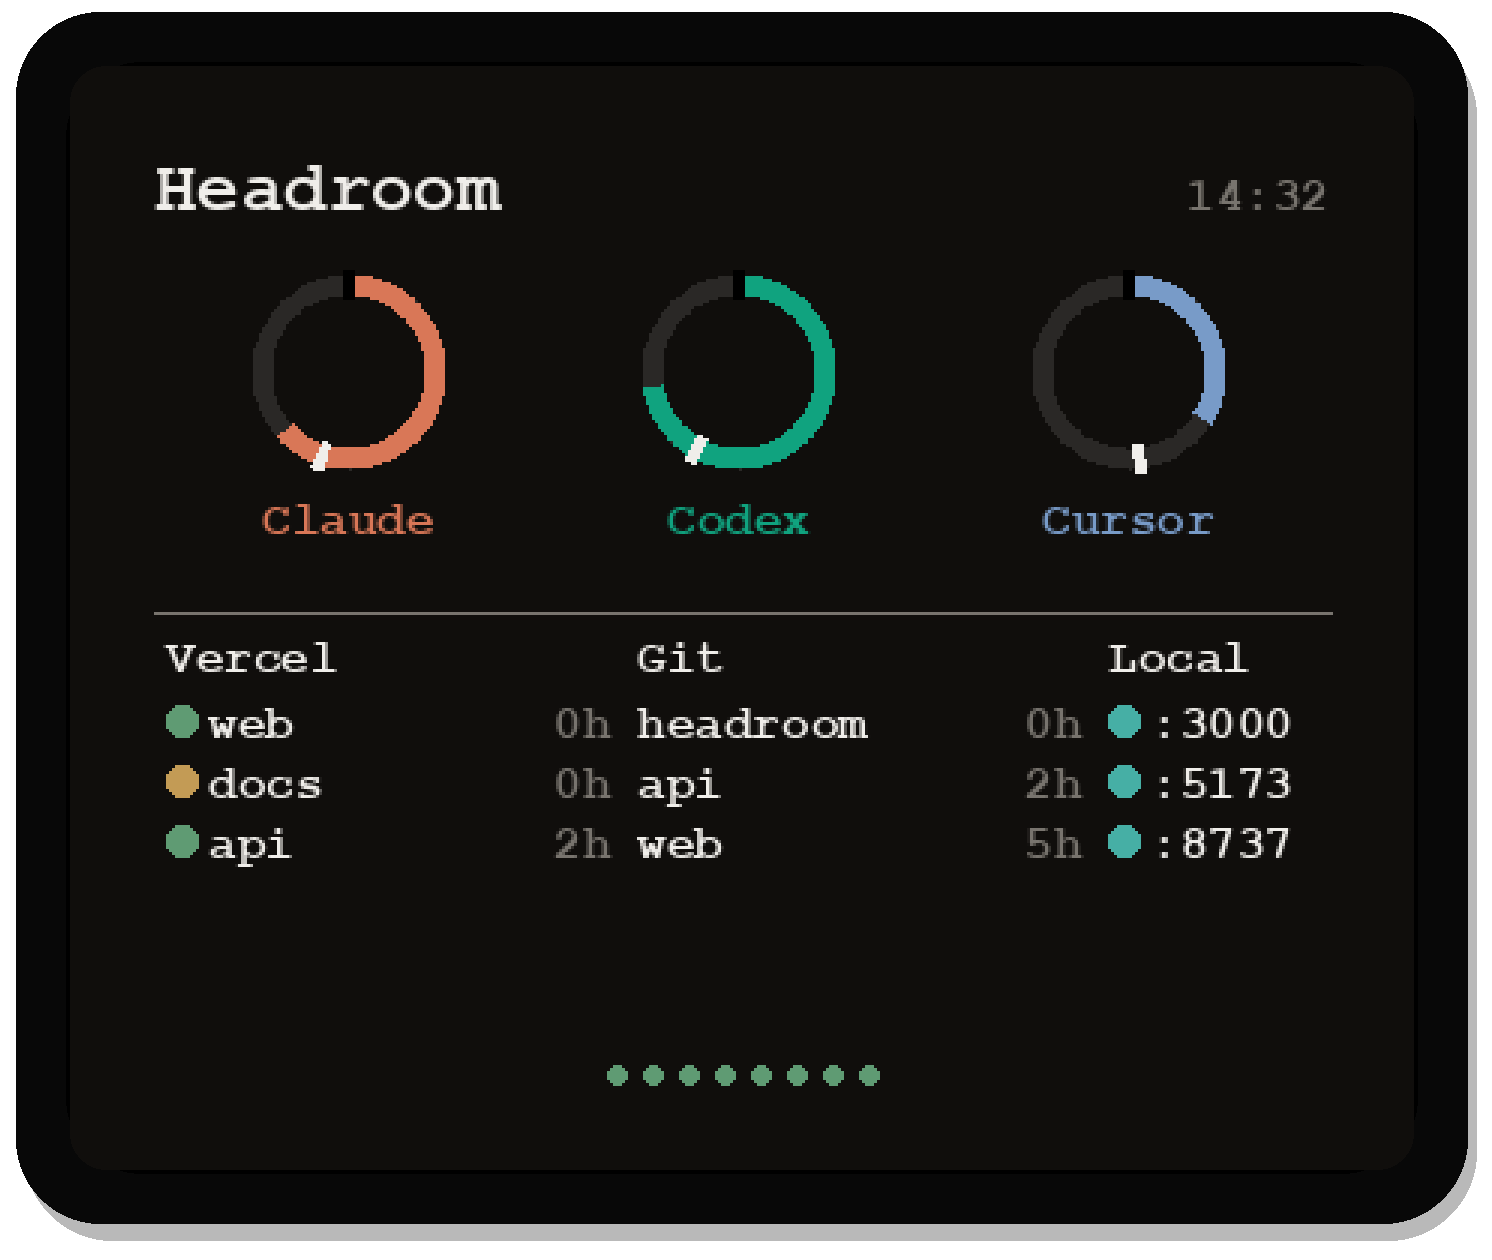
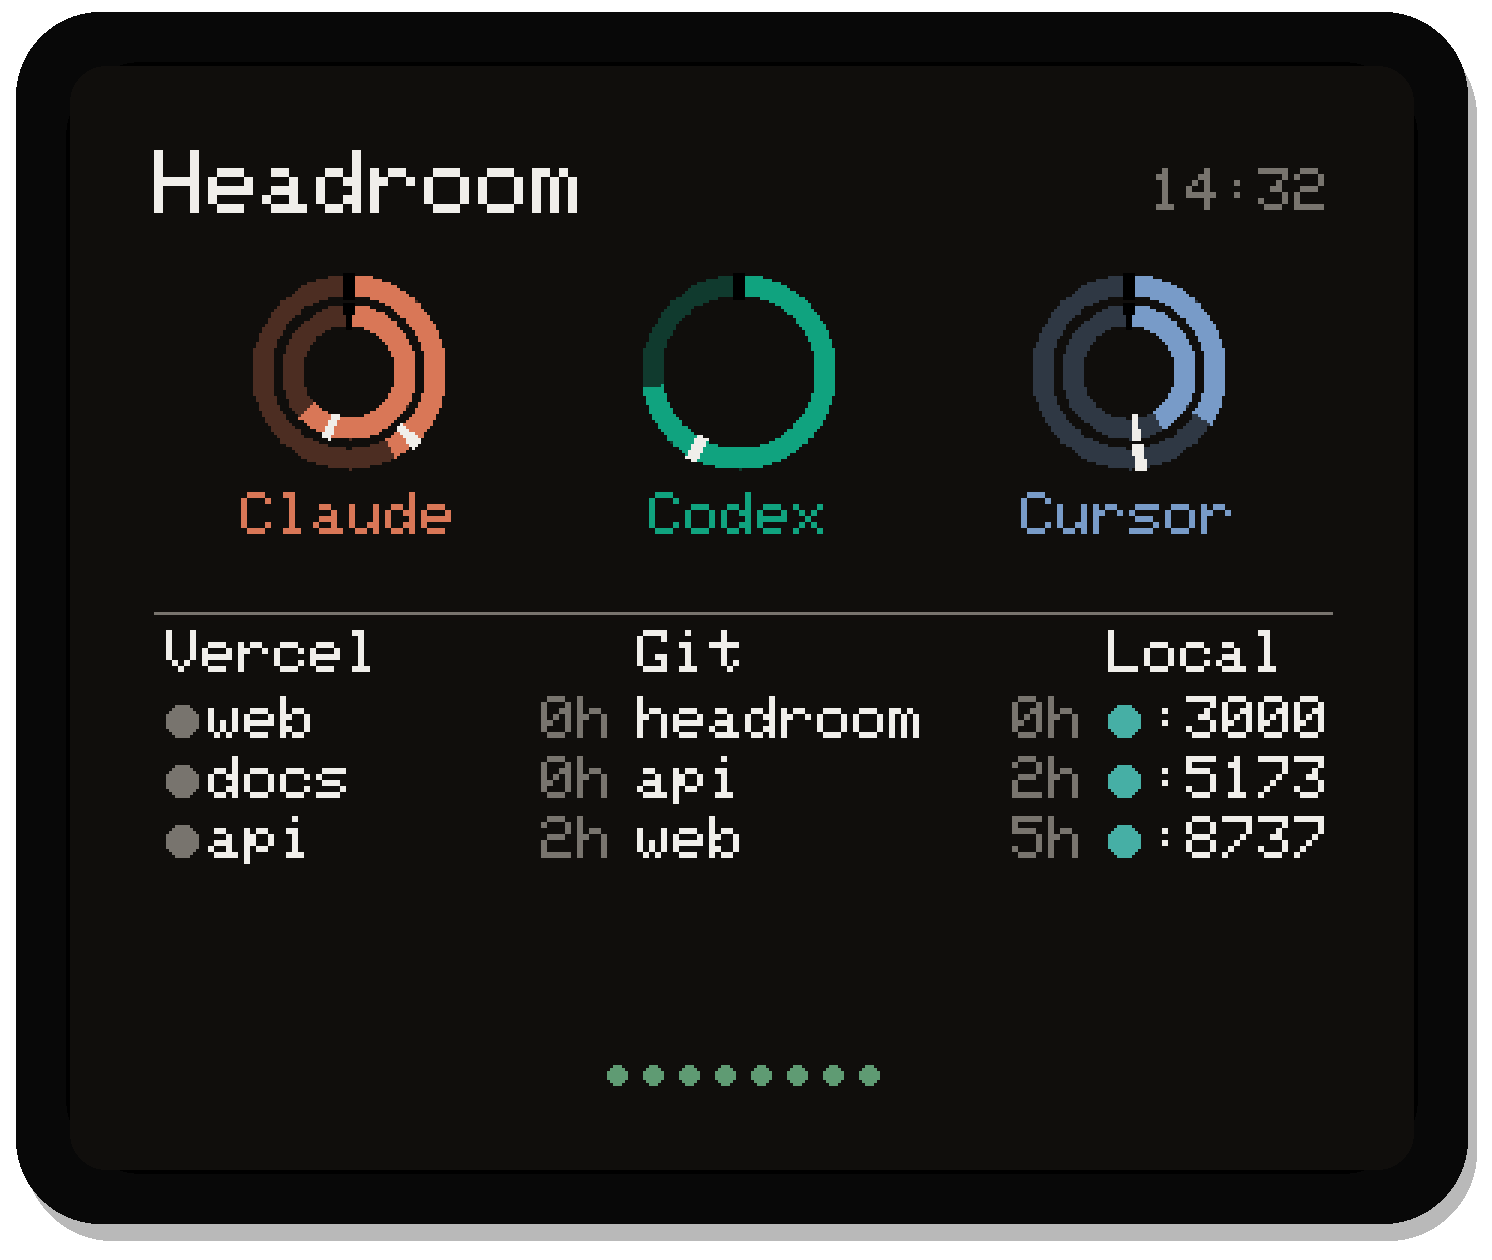
docs: first-run Release app path and pixel-font ESP32 preview
Rewrite quick start around the bundled .app + Welcome sheet, and refresh
the glance screenshot from the classic GFX font renderer.

diff --git a/README.md b/README.md
@@ -12,7 +12,7 @@ that into one glance:
 | Always on | What you see |
 |---|---|
 | **ESP32 AMOLED** | Claude / Codex / Cursor quota rings, Vercel, git, local ports |
-| **Menu bar** | Three thin remaining-quota meters + amber/red attention pip |
+| **Menu bar** | Thin remaining-quota meters for enabled providers + amber/red attention pip |
 | **Popover** | Overview rings, daily burn, spend, Actions / Supabase / servers |
 
 One Python host on your Mac reads local auth + CLIs and serves a single JSON
@@ -42,88 +42,107 @@ tap a slot for detail, long-press to force-refresh.
 ## Why it exists
 
 - **Quota anxiety is real.** Session / weekly windows, pace, and spend are
-  scattered across three products. Headroom puts hottest pool % + pace on one
-  ring (and three menu-bar ticks).
+  scattered across products. Headroom puts hottest pool % + pace on one
+  ring (and a menu-bar tick per enabled provider).
 - **Ship status is ambient.** Failed Actions, Vercel builds, Supabase alerts,
   and listening local servers surface as an attention pip — not another tab.
 - **Local-first.** The host talks to credentials and CLIs you already have.
   The board can fall back to USB CDC when hotel Wi‑Fi blocks mDNS.
 
-## Quick start
+## Requirements
 
-### 1. Host
+| Need | Notes |
+|---|---|
+| macOS 14+ | Menu bar app |
+| Python 3.9+ | Bundled host is **stdlib only** (system `/usr/bin/python3`) |
+| At least one of Claude / Codex / Cursor | Already signed in locally |
+| Optional: Xcode + [xcodegen](https://github.com/yonaskolb/XcodeGen) | Only if you build from source |
+| Optional: PlatformIO | Only if you flash the ESP32 |
+
+No Headroom cloud account. Tokens stay on your Mac.
+
+## Quick start (from scratch)
+
+### Option A — Release app (easiest)
+
+1. Download **HeadroomBar-macos.zip** from
+   [Releases](https://github.com/michellzappa/headroom/releases).
+2. Unzip and open `HeadroomBar.app` (right-click → Open the first time if
+   Gatekeeper complains — builds are ad-hoc signed).
+3. Click the menu bar meters → on first launch you’ll get a **Welcome** sheet.
+4. Tap **Start host & keep at login** — the app installs a LaunchAgent that runs
+   the **Python host bundled inside the .app**.
+5. Confirm which providers were detected (Claude / Codex / Cursor) and Continue.
+
+That’s it. The host stays up after you quit the menu bar (ESP32-friendly).
+
+### Option B — Build from source
 
 ```bash
-cd host
-cp config.example.json ~/.headroom/config.json   # edit authors / org / timezone
-python3 headroom_server.py                       # http://0.0.0.0:8737/usage
-curl -s localhost:8737/usage | python3 -m json.tool
+git clone https://github.com/michellzappa/headroom.git
+cd headroom
+./scripts/build-app.sh          # embeds host → dist/HeadroomBar.app
+open dist/HeadroomBar.app
 ```
 
-Optional login item (edit `REPLACE_WITH_*` paths in the plist first):
+Or the two-piece flow (host from clone, debug app):
 
 ```bash
-mkdir -p ~/.headroom/logs
-cp host/com.mz.headroom.plist ~/Library/LaunchAgents/
-# then: launchctl bootstrap gui/$(id -u) ~/Library/LaunchAgents/com.mz.headroom.plist
-```
-
-### 2. Menu bar
-
-```bash
-cd macos
-xcodegen generate   # if you change project.yml
+./scripts/install-host.sh
+cd macos && ../scripts/sync-embedded-host.sh && xcodegen generate
 xcodebuild -project HeadroomBar.xcodeproj -scheme HeadroomBar \
   -configuration Debug -derivedDataPath .build build
 open .build/Build/Products/Debug/HeadroomBar.app
 ```
 
-No Dock icon. Settings live under the popover gear (endpoint, source toggles,
-Supabase / GitHub tokens).
+**Foreground try** (no login item): `./scripts/install-host.sh --foreground`  
+**Uninstall LaunchAgent:** `./scripts/uninstall-host.sh` (`--purge` wipes `~/.headroom`)
 
-### 3. ESP32 (optional)
+### What happens on first run
+
+- `~/.headroom/sources.json` is seeded from **local detection** — only providers
+  that look signed-in are enabled. If none are found, all three quota sources
+  stay on so the UI can show sign-in errors.
+- The Welcome sheet lets you confirm toggles before the overview appears.
+- Edit `~/.headroom/config.json` later for git authors / GitHub org / timezone.
+
+```bash
+curl -s localhost:8737/health | python3 -m json.tool
+curl -s localhost:8737/setup  | python3 -m json.tool
+```
+
+### ESP32 desk display (optional)
+
+Hardware is optional. The menu bar alone is useful.
 
 1. `cp firmware/src/config_example.h firmware/src/config.h` — Wi‑Fi SSIDs +
    Mac hostname (`scutil --get LocalHostName`) or fallback IP.
-2. Paste the host token into `HOST_TOKEN` (see below). The host prints it at
-   startup and keeps it in `~/.headroom/token`.
+2. Paste the host token into `HOST_TOKEN` (`~/.headroom/token` after first start).
 3. `cd firmware && pio run -t upload && pio device monitor`
 
-Wi‑Fi first; USB CDC fallback on the same cable when the LAN path fails.
-**Tap** a glance slot for detail; **long-press** home (~400ms) →
-`POST /sync/refresh`. **Tap the header** to swap home's lower half between
-activity (Vercel / Git / Local) and a burndown per provider; the choice is
-kept in NVS across reboots.
+Wi‑Fi first; USB CDC fallback when LAN fails. **Tap** a glance slot for detail;
+**long-press** home → `POST /sync/refresh`.
 
-After the first cable flash, `OTA_HOSTNAME` is reachable for updates:
+### Troubleshooting
 
-```bash
-pio run -t upload --upload-port headroom.local
-```
-
-The board fetches `GET /usage?view=device` — a ~2KB projection of the full
-document holding only what it renders. That matters on the cable: 30KB at
-115200 baud is ~2.6s per poll. `host/device_view.py` owns the projection and
-its row caps mirror the `MAX_*` constants in `firmware/src/main.cpp`;
-`host/test_contract.py` fails if the two drift.
+| Symptom | Fix |
+|---|---|
+| Welcome / host isn’t running | Tap **Start host & keep at login** in the popover |
+| Host unhealthy | `tail -f ~/.headroom/logs/headroom.err` |
+| Empty provider | Sign into that app/CLI; enable under Settings → Sources |
+| Gatekeeper blocks .app | Right-click → Open (ad-hoc CI builds aren’t notarized yet) |
+| Restart host | `launchctl kickstart -k gui/$(id -u)/com.mz.headroom` |
+| Build a fresh .app | `./scripts/build-app.sh` → `dist/HeadroomBar.app` |
 
 ### Access control
 
-`/usage` carries repo names, commit subjects, local server paths and ports, and
-spend. The host binds `0.0.0.0` so the board can reach it, which also exposes
-that to everyone else on the network — so **non-loopback callers must present a
-token**. Loopback (the menu bar, `curl localhost`, the USB bridge) needs
-nothing.
+`/usage` carries repo names, commit subjects, local paths/ports, and spend.
+The host binds `0.0.0.0` so the board can reach it — **non-loopback callers
+must present a token**. Loopback needs nothing.
 
-The token is generated on first run into `~/.headroom/token` (mode 0600) and
-printed at startup. Send it as `X-Headroom-Token:` or `Authorization: Bearer`:
-
-```bash
-curl -s -H "X-Headroom-Token: $(cat ~/.headroom/token)" http://mz-mbp.local:8737/usage
-```
-
-Override it with `auth_token` in `~/.headroom/config.json`, or set
-`"require_auth": false` there to restore the old open-network behaviour.
+Token is generated into `~/.headroom/token` (mode 0600). Send
+`X-Headroom-Token:` or `Authorization: Bearer`. Override with `auth_token` /
+`"require_auth": false` in `~/.headroom/config.json`.
 
 ## What it tracks
 
@@ -139,13 +158,19 @@ Override it with `auth_token` in `~/.headroom/config.json`, or set
 | Local servers | `lsof` TCP LISTEN → labeled ports (stop from the menu bar) |
 | Daily burn | Per-day %-point burn across Claude / Codex / Cursor |
 
-Toggle sources in `~/.headroom/sources.json` or Mac Settings. Failures keep the
-last-good snapshot (`cache_util.keep_stale`).
+Toggle sources in `~/.headroom/sources.json` or Mac Settings — CodexBar-style:
+only enabled quota providers appear in the menu bar, overview rings, and tabs.
+Firmware still knows the three built-in pages but hides disabled ones. Failures
+keep the last-good snapshot (`cache_util.keep_stale`).
 
 Each row above is one entry in `SOURCES` in `host/sources_config.py` — id,
-title, poll interval, fetcher, and the two formatters. The HTTP payload, the
-Settings list, the ESP32 footer dots, and the poll schedule all derive from it,
-so adding a source means adding one entry rather than editing four places.
+title, poll interval, fetcher, and the two formatters. Quota rows also carry
+`kind="quota"`, pool specs, and a burn headline; from that the host derives
+sample pools, daily burn, and `/usage` → `providers[]`. The HTTP payload, the
+Settings list, the ESP32 footer dots, and the poll schedule all follow the
+registry, so adding an activity source is one entry. Adding a coding provider
+is one entry + a fetcher module (Mac still maps known ids for meters until the
+UI is fully schema-driven).
 
 ### Tests
 
@@ -183,6 +208,7 @@ Everything below is loopback-open and token-gated off-box.
 | `GET /usage` | Full flat JSON for the menu bar |
 | `GET /usage?view=device` | ~2KB projection the ESP32 polls |
 | `GET /health` | Uptime + compact source status + cache age |
+| `GET /setup` | Detected credentials + enabled map (first-run sheet) |
 | `POST /sync/refresh` | Force-refresh (LAN OK — ESP32 long-press) |
 | `POST /sources` | Toggle enabled sources (loopback) |
 | `POST /supabase/refresh` | Force Supabase poll (loopback) |

diff --git a/macos/README.md b/macos/README.md
@@ -1,19 +1,31 @@
 # Headroom for the menu bar
 
-Native macOS 14+ companion to the ESP32 display. Same
-`http://127.0.0.1:8737/usage` feed.
+Native macOS 14+ companion. The Release `.app` **bundles the Python host** —
+first launch can install it as a login item from the Welcome sheet.
 
-- Status item: three thin remaining-quota meters (Claude, Codex, Cursor) plus an
-  amber/red attention pip
+- Status item: thin remaining-quota meters for **enabled** providers + attention pip
 - Overview: quota rings, daily burn, attention + spend
-- Provider tabs + activity / Supabase / local servers
+- Welcome / setup sheet when the host is down or on first open
 - Settings: endpoint, source toggles, tokens
 
-## Build
+## Easiest path
+
+Download `HeadroomBar-macos.zip` from GitHub Releases, open the app, tap
+**Start host & keep at login**.
+
+Or from a clone:
+
+```sh
+./scripts/build-app.sh
+open dist/HeadroomBar.app
+```
+
+## Debug build
 
 ```sh
 cd macos
-xcodegen generate   # after project.yml changes
+../scripts/sync-embedded-host.sh   # embeds ../host into the app bundle
+xcodegen generate
 xcodebuild \
   -project HeadroomBar.xcodeproj \
   -scheme HeadroomBar \
@@ -23,24 +35,10 @@ xcodebuild \
 open ".build/Build/Products/Debug/HeadroomBar.app"
 ```
 
-No Dock icon. Start the host first:
-
-```sh
-python3 ../host/headroom_server.py
-```
+Full walkthrough: [../README.md](../README.md#quick-start-from-scratch).
 
 ## README screenshots
 
-From the repo root (exports Overview against `docs/demo_usage.json`):
-
 ```sh
 ./scripts/generate_screenshots.sh
-```
-
-Or only the app export:
-
-```sh
-HeadroomBar.app/Contents/MacOS/HeadroomBar \
-  --export-screenshots ../docs/screenshots \
-  --fixture ../docs/demo_usage.json
 ```
